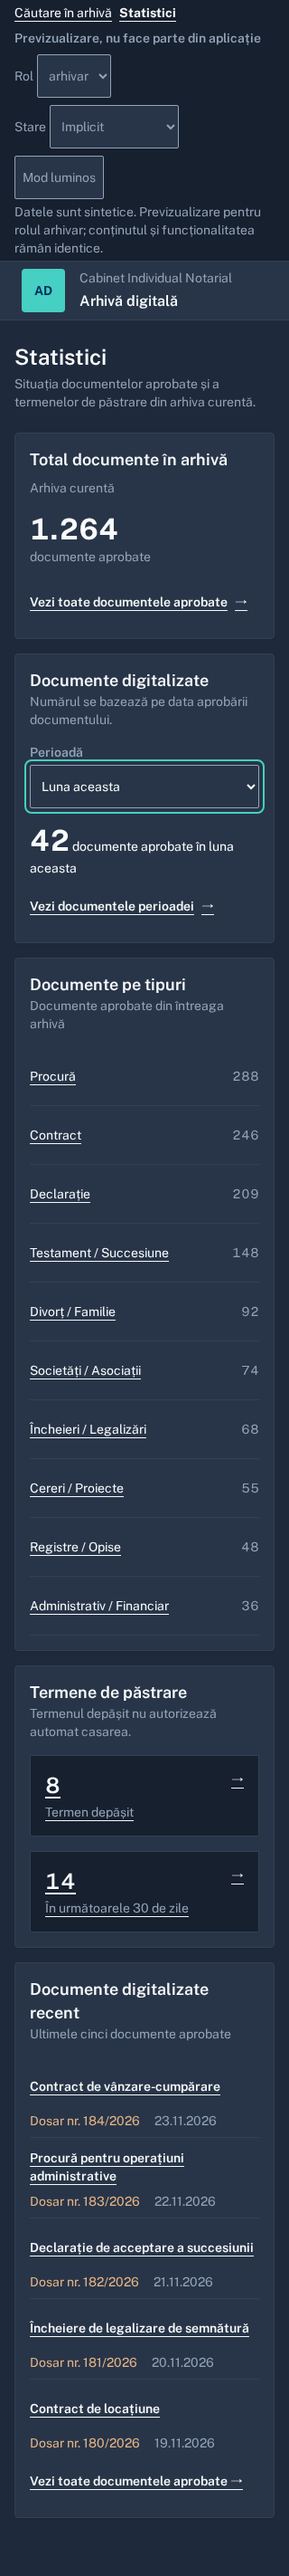
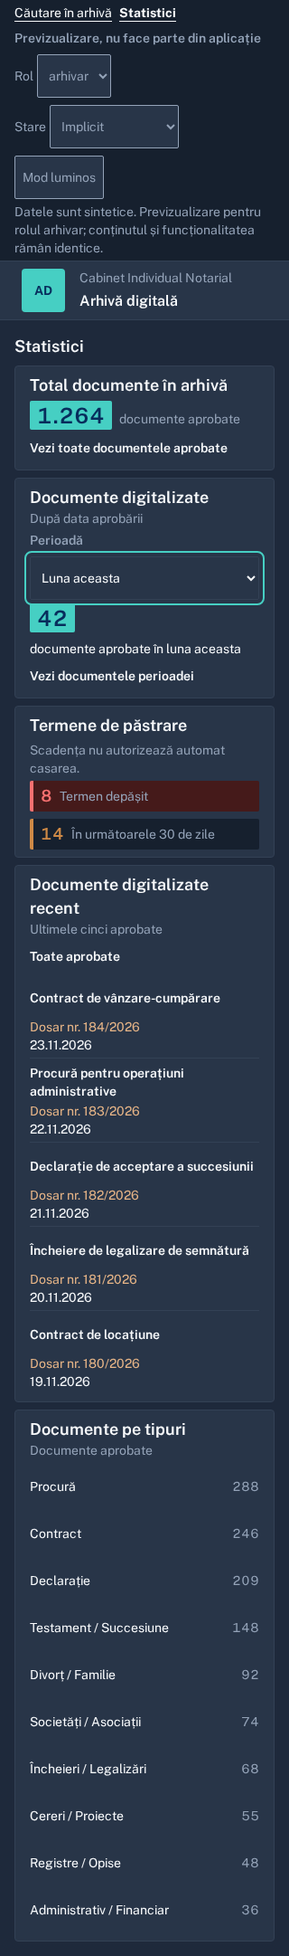
feat(DS-007): refine statistics dashboard layout

diff --git a/docs/design/mocks/DS-007.html b/docs/design/mocks/DS-007.html
@@ -14,6 +14,7 @@
       --color-primary: #072D5C; --color-accent-mid: #4683CF; --color-accent-teal: #46CFC3;
       --color-accent-amber: #CE8946; --color-version-navy: #072D5C; --color-archival-label-bg: #F9F1E9;
       --color-archival-label-text: #79502A; --color-archival-label-border: #DEC09F; --color-focus-ring: #4683CF;
+      --color-danger: #C53030; --color-danger-bg: #FFF5F5; --color-danger-border: #FEB2B2;
       --font-body: 'Public Sans', system-ui, sans-serif; --font-heading: var(--font-body);
       --text-h1: 700 32px/40px var(--font-heading); --text-h2: 600 24px/32px var(--font-heading);
       --text-h3: 600 18px/26px var(--font-heading); --text-body: 400 16px/24px var(--font-body);
@@ -30,6 +31,7 @@
       --color-text-primary: #F8FAFC; --color-text-secondary: #94A3B8; --color-border: #334155;
       --color-primary: #4683CF; --color-accent-mid: #60A5FA; --color-focus-ring: #46CFC3;
       --color-archival-label-bg: #3A302A; --color-archival-label-text: #E7B587; --color-archival-label-border: #69503A;
+      --color-danger: #F87171; --color-danger-bg: #451A1A; --color-danger-border: #7F1D1D;
     }
     *, *::before, *::after { box-sizing: border-box; }
     [hidden] { display: none !important; }
@@ -53,56 +55,67 @@
     .header-copy { display: grid; gap: var(--space-xs); }
     .header-kicker { color: var(--color-text-secondary); }
     .header-title { font: var(--text-body); font-weight: 600; }
-    .wrap { inline-size: min(100%, calc(var(--space-3xl) * 18)); margin-inline: auto; padding: var(--space-xl) var(--space-md) var(--space-3xl); }
-    .page-heading { justify-content: space-between; align-items: flex-end; margin-block-end: var(--space-lg); }
-    h1 { font: var(--text-h1); }
-    .page-description { max-inline-size: 68ch; margin-block-start: var(--space-xs); color: var(--color-text-secondary); }
-    .section-list { display: grid; gap: var(--space-md); }
-    .section { min-inline-size: 0; padding: var(--space-md); border: thin solid var(--color-border); border-radius: var(--radius-md); background: var(--color-bg-surface); box-shadow: var(--shadow-card); }
-    .section-heading { justify-content: space-between; margin-block-end: var(--space-md); }
+    .wrap { inline-size: min(100%, calc(var(--space-3xl) * 20)); margin-inline: auto; padding: var(--space-sm) var(--space-md) var(--space-md); }
+    .page-heading { margin-block-end: var(--space-sm); }
+    h1 { font: var(--text-h2); }
+    .section-list { display: grid; gap: var(--space-sm); }
+    .top-stats { display: grid; grid-template-columns: minmax(0, 1fr); gap: var(--space-sm); }
+    .bottom-grid { display: grid; grid-template-columns: minmax(0, 1fr); align-items: start; gap: var(--space-sm); }
+    .section { min-inline-size: 0; padding: var(--space-sm) var(--space-md); border: thin solid var(--color-border); border-radius: var(--radius-md); background: var(--color-bg-surface); }
+    .section-heading { justify-content: space-between; gap: var(--space-xs) var(--space-sm); margin-block-end: var(--space-xs); }
     h2 { font: var(--text-h3); }
     .section-kicker { color: var(--color-text-secondary); }
-    .section-link { min-block-size: var(--space-2xl); margin-inline-start: auto; font-weight: 600; }
-    .metric-layout { display: grid; grid-template-columns: minmax(0, 1fr) auto; align-items: end; gap: var(--space-md); }
-    .metric-value { font: var(--text-h1); font-variant-numeric: tabular-nums; }
+    .section-link { min-block-size: var(--space-xl); margin-inline-start: auto; font-weight: 600; text-decoration: none; }
+    .section-link:hover, .section-link:focus-visible, .type-row a:hover, .type-row a:focus-visible, .recent-title:hover, .recent-title:focus-visible { text-decoration: underline; }
+    .metric-layout { display: flex; align-items: center; justify-content: space-between; flex-wrap: wrap; gap: var(--space-xs) var(--space-md); }
+    .metric-content { display: flex; align-items: baseline; flex-wrap: wrap; gap: var(--space-sm); min-inline-size: 0; }
+    .metric-value { display: inline-flex; align-items: center; padding: 0 var(--space-sm); border-radius: var(--radius-sm); background: var(--color-accent-teal); color: var(--color-version-navy); font: var(--text-h2); font-variant-numeric: tabular-nums; }
     .metric-caption { color: var(--color-text-secondary); }
-    .period-controls { display: flex; align-items: end; flex-wrap: wrap; gap: var(--space-sm); margin-block-end: var(--space-md); }
-    .field { display: grid; gap: var(--space-xs); }
+    .period-controls { display: flex; align-items: center; flex-wrap: wrap; gap: var(--space-xs) var(--space-sm); margin-block-end: var(--space-xs); }
+    .field { display: flex; align-items: center; flex-wrap: wrap; gap: var(--space-sm); }
     .field label { color: var(--color-text-secondary); font-weight: 600; }
-    .field select, .field input { min-block-size: var(--space-2xl); min-inline-size: 11ch; padding: var(--space-xs) var(--space-sm); border: thin solid var(--color-text-secondary); border-radius: var(--radius-sm); background: var(--color-bg-surface); }
+    .field select, .field input { min-block-size: var(--space-2xl); min-inline-size: 11ch; padding: var(--space-xs) var(--space-sm); border: thin solid var(--color-border); border-radius: var(--radius-sm); background: var(--color-bg-surface); }
     .date-range { display: flex; flex-wrap: wrap; gap: var(--space-sm); }
-    .period-summary { display: flex; flex-wrap: wrap; align-items: baseline; gap: var(--space-sm) var(--space-md); }
-    .type-list { display: grid; grid-template-columns: repeat(2, minmax(0, 1fr)); column-gap: var(--space-xl); }
-    .type-row { display: flex; flex-wrap: nowrap; align-items: center; justify-content: space-between; gap: var(--space-md); min-inline-size: 0; padding: var(--space-sm) 0; border-block-end: thin solid var(--color-border); }
-    .type-row a { display: inline-flex; flex: 1; align-items: center; min-block-size: var(--space-2xl); min-inline-size: 0; overflow-wrap: anywhere; }
+    .period-summary { display: flex; align-items: center; justify-content: space-between; flex-wrap: wrap; gap: var(--space-xs) var(--space-md); }
+    .period-summary p { display: flex; align-items: center; flex-wrap: wrap; gap: var(--space-sm); }
+    .type-list { display: grid; grid-template-columns: minmax(0, 1fr); }
+    .type-row { display: flex; flex-wrap: nowrap; align-items: center; justify-content: space-between; gap: var(--space-sm); min-inline-size: 0; padding-block: var(--space-xs); }
+    .type-row a { display: inline-flex; flex: 1; align-items: center; min-block-size: var(--space-lg); min-inline-size: 0; overflow-wrap: anywhere; text-decoration: none; }
     .type-count { flex: none; color: var(--color-text-secondary); font-variant-numeric: tabular-nums; }
-    .deadline-list { display: grid; grid-template-columns: repeat(2, minmax(0, 1fr)); gap: var(--space-md); }
-    .deadline-row { justify-content: space-between; align-items: flex-start; min-inline-size: 0; padding: var(--space-md); border: thin solid var(--color-border); border-radius: var(--radius-sm); background: var(--color-bg-subtle); }
-    .deadline-copy { display: grid; gap: var(--space-xs); min-inline-size: 0; }
-    .deadline-copy strong { font: var(--text-h2); font-variant-numeric: tabular-nums; }
+    .deadline-list { display: grid; grid-template-columns: repeat(2, minmax(0, 1fr)); gap: var(--space-sm); }
+    .deadline-row { display: flex; align-items: center; justify-content: flex-start; min-inline-size: 0; padding: var(--space-xs) var(--space-sm); border: 0; border-inline-start: var(--space-xs) solid var(--color-accent-amber); border-radius: var(--radius-sm); background: var(--color-bg-subtle); color: var(--color-text-primary); text-decoration: none; }
+    .deadline-row.overdue { border-color: var(--color-danger); background: var(--color-danger-bg); }
+    .deadline-copy { display: flex; align-items: center; flex-wrap: wrap; gap: var(--space-xs) var(--space-sm); min-inline-size: 0; }
+    .deadline-copy strong { color: var(--color-danger); font: var(--text-h3); font-variant-numeric: tabular-nums; }
+    .deadline-row.upcoming .deadline-copy strong { color: var(--color-accent-amber); }
     .deadline-copy span { color: var(--color-text-secondary); }
     .recent-list { display: grid; }
-    .recent-row { justify-content: space-between; min-inline-size: 0; padding: var(--space-sm) 0; border-block-end: thin solid var(--color-border); }
+    .recent-row { display: grid; grid-template-columns: minmax(0, 1fr) max-content max-content; align-items: center; gap: var(--space-xs); min-inline-size: 0; padding-block: var(--space-xs); border-block-end: thin solid var(--color-border); }
     .recent-row:last-child { border-block-end: 0; }
-    .recent-main { display: grid; gap: var(--space-xs); min-inline-size: 0; }
-    .recent-title { display: inline-flex; align-items: center; min-block-size: var(--space-2xl); font-weight: 600; overflow-wrap: anywhere; }
-    .recent-meta { display: flex; flex-wrap: wrap; gap: var(--space-xs) var(--space-md); color: var(--color-text-secondary); }
+    .recent-title { display: inline-flex; align-items: center; min-block-size: var(--space-lg); min-inline-size: 0; font-weight: 600; overflow-wrap: anywhere; text-decoration: none; }
+    .recent-meta { display: flex; flex-wrap: wrap; gap: var(--space-xs) var(--space-sm); color: var(--color-text-secondary); }
     .dossier { color: var(--color-archival-label-text); }
     .empty-message, .state-message { padding: var(--space-md); border-inline-start: var(--space-xs) solid var(--color-accent-mid); border-radius: var(--radius-sm); background: var(--color-bg-subtle); }
     main[data-state="error"] .state-message { border-color: var(--color-accent-amber); }
-    .skeleton { display: block; min-block-size: var(--space-2xl); margin-block: var(--space-sm); border-radius: var(--radius-sm); background: var(--color-bg-subtle); }
+    .skeleton { display: block; inline-size: var(--space-3xl); min-block-size: var(--space-2xl); margin-block: var(--space-sm); border-radius: var(--radius-sm); background: var(--color-bg-subtle); }
     .sr-only { position: absolute; inline-size: 1px; block-size: 1px; padding: 0; margin: -1px; overflow: hidden; clip: rect(0, 0, 0, 0); white-space: nowrap; border: 0; }
+    @media (min-width: 640px) {
+      .top-stats { grid-template-columns: repeat(2, minmax(0, 1fr)); }
+    }
+    @media (min-width: 1024px) {
+      .bottom-grid { grid-template-columns: minmax(0, 3fr) minmax(0, 2fr); }
+    }
     @media (max-width: 639px) {
-      .wrap { padding-block-start: var(--space-lg); }
-      .page-heading { align-items: flex-start; }
-      h1 { font: var(--text-h2); }
-      .section { padding: var(--space-md); }
-      .type-list, .deadline-list { grid-template-columns: minmax(0, 1fr); }
-      .metric-layout { grid-template-columns: minmax(0, 1fr); }
+      .wrap { padding-block-start: var(--space-md); }
+      h1 { font: var(--text-h3); }
+      .section { padding: var(--space-sm) var(--space-md); }
+      .deadline-list { grid-template-columns: minmax(0, 1fr); }
       .section-link { margin-inline-start: 0; }
-      .period-controls, .date-range { inline-size: 100%; }
-      .field, .field select, .field input { inline-size: 100%; }
-      .recent-row { align-items: flex-start; }
+      .period-controls, .date-range, .field { inline-size: 100%; }
+      .field { flex-direction: column; align-items: stretch; }
+      .field select, .field input { inline-size: 100%; }
+      .recent-row { grid-template-columns: minmax(0, 1fr); gap: 0; }
+      .recent-title, .type-row a { min-block-size: calc(var(--space-2xl) - var(--space-xs)); }
     }
     @media (prefers-reduced-motion: reduce) { *, *::before, *::after { scroll-behavior: auto !important; transition-duration: 0.01ms !important; } }
   </style>
@@ -130,79 +143,80 @@
   </header>
 
   <main class="wrap" id="statistics-screen" data-state="default">
-    <div class="page-heading">
-      <div><h1>Statistici</h1><p class="page-description">Situația documentelor aprobate și a termenelor de păstrare din arhiva curentă.</p></div>
-    </div>
+    <div class="page-heading"><h1>Statistici</h1></div>
 
     <div class="section-list">
-      <section class="section" aria-labelledby="total-title">
-        <div class="section-heading"><h2 id="total-title">Total documente în arhivă</h2><span class="section-kicker">Arhiva curentă</span></div>
-        <div class="metric-layout">
-          <div><p class="metric-value" data-default="1.264" data-empty="0">1.264</p><p class="metric-caption">documente aprobate</p></div>
-          <a class="section-link" href="DS-001.html?status=approved">Vezi toate documentele aprobate <span aria-hidden="true">→</span></a>
-        </div>
-      </section>
-
-      <section class="section" aria-labelledby="period-title">
-        <div class="section-heading"><div><h2 id="period-title">Documente digitalizate</h2><p class="section-kicker">Numărul se bazează pe data aprobării documentului.</p></div></div>
-        <div class="period-controls">
-          <div class="field"><label for="period">Perioadă</label><select id="period">
-            <option value="this-month" data-count="42" data-label="Luna aceasta">Luna aceasta</option>
-            <option value="last-month" data-count="38" data-label="Luna trecută">Luna trecută</option>
-            <option value="this-year" data-count="326" data-label="Anul acesta">Anul acesta</option>
-            <option value="all-time" data-count="1264" data-label="Toată perioada">Toată perioada</option>
-            <option value="custom" data-count="12" data-label="Interval personalizat">Interval personalizat</option>
-          </select></div>
-          <div class="date-range" id="custom-range" hidden>
-            <div class="field"><label for="date-from">De la</label><input id="date-from" type="date" value="2026-10-01"></div>
-            <div class="field"><label for="date-to">Până la</label><input id="date-to" type="date" value="2026-10-31"></div>
+      <div class="top-stats">
+        <section class="section" id="total-section" aria-labelledby="total-title">
+          <div class="section-heading"><h2 id="total-title">Total documente în arhivă</h2></div>
+          <div class="metric-layout">
+            <div class="metric-content"><p class="metric-value" data-default="1.264" data-empty="0">1.264</p><p class="metric-caption">documente aprobate</p></div>
+            <a class="section-link" href="DS-001.html?status=approved">Vezi toate documentele aprobate</a>
           </div>
-        </div>
-        <div class="period-summary">
-          <p><strong class="metric-value" id="period-count" data-default="42" data-empty="0">42</strong> <span id="period-label">documente aprobate în luna aceasta</span></p>
-          <a class="section-link" id="period-link" href="DS-001.html?status=approved&amp;approved_period=this-month">Vezi documentele perioadei <span aria-hidden="true">→</span></a>
-        </div>
-      </section>
+        </section>
 
-      <section class="section" aria-labelledby="types-title">
-        <div class="section-heading"><div><h2 id="types-title">Documente pe tipuri</h2><p class="section-kicker">Documente aprobate din întreaga arhivă</p></div></div>
-        <ul class="type-list" id="type-list">
-          <li class="type-row"><a href="DS-001.html?status=approved&amp;type=Procur%C4%83">Procură</a><span class="type-count">288</span></li>
-          <li class="type-row"><a href="DS-001.html?status=approved&amp;type=Contract">Contract</a><span class="type-count">246</span></li>
-          <li class="type-row"><a href="DS-001.html?status=approved&amp;type=Declara%C8%9Bie">Declarație</a><span class="type-count">209</span></li>
-          <li class="type-row"><a href="DS-001.html?status=approved&amp;type=Testament%20%2F%20Succesiune">Testament / Succesiune</a><span class="type-count">148</span></li>
-          <li class="type-row"><a href="DS-001.html?status=approved&amp;type=Divor%C8%9B%20%2F%20Familie">Divorț / Familie</a><span class="type-count">92</span></li>
-          <li class="type-row"><a href="DS-001.html?status=approved&amp;type=Societ%C4%83%C8%9Bi%20%2F%20Asocia%C8%9Bii">Societăți / Asociații</a><span class="type-count">74</span></li>
-          <li class="type-row"><a href="DS-001.html?status=approved&amp;type=%C3%8Encheieri%20%2F%20Legaliz%C4%83ri">Încheieri / Legalizări</a><span class="type-count">68</span></li>
-          <li class="type-row"><a href="DS-001.html?status=approved&amp;type=Cereri%20%2F%20Proiecte">Cereri / Proiecte</a><span class="type-count">55</span></li>
-          <li class="type-row"><a href="DS-001.html?status=approved&amp;type=Registre%20%2F%20Opise">Registre / Opise</a><span class="type-count">48</span></li>
-          <li class="type-row"><a href="DS-001.html?status=approved&amp;type=Administrativ%20%2F%20Financiar">Administrativ / Financiar</a><span class="type-count">36</span></li>
-        </ul>
-      </section>
+        <section class="section" id="digitalized-section" aria-labelledby="period-title">
+          <div class="section-heading"><div><h2 id="period-title">Documente digitalizate</h2><p class="section-kicker">După data aprobării</p></div></div>
+          <div class="period-controls">
+            <div class="field"><label for="period">Perioadă</label><select id="period">
+              <option value="this-month" data-count="42" data-label="Luna aceasta">Luna aceasta</option>
+              <option value="last-month" data-count="38" data-label="Luna trecută">Luna trecută</option>
+              <option value="this-year" data-count="326" data-label="Anul acesta">Anul acesta</option>
+              <option value="all-time" data-count="1264" data-label="Toată perioada">Toată perioada</option>
+              <option value="custom" data-count="12" data-label="Interval personalizat">Interval personalizat</option>
+            </select></div>
+            <div class="date-range" id="custom-range" hidden>
+              <div class="field"><label for="date-from">De la</label><input id="date-from" type="date" value="2026-10-01"></div>
+              <div class="field"><label for="date-to">Până la</label><input id="date-to" type="date" value="2026-10-31"></div>
+            </div>
+          </div>
+          <div class="period-summary">
+            <p><strong class="metric-value" id="period-count" data-default="42" data-empty="0">42</strong> <span id="period-label">documente aprobate în luna aceasta</span></p>
+            <a class="section-link" id="period-link" href="DS-001.html?status=approved&amp;approved_period=this-month">Vezi documentele perioadei</a>
+          </div>
+        </section>
+      </div>
 
-      <section class="section" aria-labelledby="retention-title">
-        <div class="section-heading"><div><h2 id="retention-title">Termene de păstrare</h2><p class="section-kicker">Termenul depășit nu autorizează automat casarea.</p></div></div>
+      <section class="section" id="retention-section" aria-labelledby="retention-title">
+        <div class="section-heading"><h2 id="retention-title">Termene de păstrare</h2><p class="section-kicker">Scadența nu autorizează automat casarea.</p></div>
         <div class="deadline-list">
-          <a class="deadline-row" href="DS-005.html?filter=overdue" aria-label="Vezi documentele cu termen de păstrare depășit">
-            <span class="deadline-copy"><strong data-default="8" data-empty="0">8</strong><span>Termen depășit</span></span><span aria-hidden="true">→</span>
+          <a class="deadline-row overdue" href="DS-005.html?filter=overdue" aria-label="Vezi documentele cu termen de păstrare depășit">
+            <span class="deadline-copy"><strong data-default="8" data-empty="0">8</strong><span>Termen depășit</span></span>
           </a>
-          <a class="deadline-row" href="DS-005.html?filter=next-30-days" aria-label="Vezi documentele cu termen în următoarele 30 de zile">
-            <span class="deadline-copy"><strong data-default="14" data-empty="0">14</strong><span>În următoarele 30 de zile</span></span><span aria-hidden="true">→</span>
+          <a class="deadline-row upcoming" href="DS-005.html?filter=next-30-days" aria-label="Vezi documentele cu termen în următoarele 30 de zile">
+            <span class="deadline-copy"><strong data-default="14" data-empty="0">14</strong><span>În următoarele 30 de zile</span></span>
           </a>
         </div>
       </section>
 
-      <section class="section" aria-labelledby="recent-title-heading">
-        <div class="section-heading"><div><h2 id="recent-title-heading">Documente digitalizate recent</h2><p class="section-kicker">Ultimele cinci documente aprobate</p></div></div>
+      <div class="bottom-grid">
+        <section class="section" id="recent-section" aria-labelledby="recent-title-heading">
+          <div class="section-heading"><div><h2 id="recent-title-heading">Documente digitalizate recent</h2><p class="section-kicker">Ultimele cinci aprobate</p></div><a class="section-link" href="DS-001.html?status=approved">Toate aprobate</a></div>
         <ul class="recent-list" id="recent-list">
-          <li class="recent-row"><div class="recent-main"><a class="recent-title" href="DS-002.html?document=doc-184">Contract de vânzare-cumpărare</a><div class="recent-meta"><span class="dossier">Dosar nr. 184/2026</span><time datetime="2026-11-23">23.11.2026</time></div></div><span class="sr-only">Deschide documentul aprobat</span></li>
-          <li class="recent-row"><div class="recent-main"><a class="recent-title" href="DS-002.html?document=doc-183">Procură pentru operațiuni administrative</a><div class="recent-meta"><span class="dossier">Dosar nr. 183/2026</span><time datetime="2026-11-22">22.11.2026</time></div></div><span class="sr-only">Deschide documentul aprobat</span></li>
-          <li class="recent-row"><div class="recent-main"><a class="recent-title" href="DS-002.html?document=doc-182">Declarație de acceptare a succesiunii</a><div class="recent-meta"><span class="dossier">Dosar nr. 182/2026</span><time datetime="2026-11-21">21.11.2026</time></div></div><span class="sr-only">Deschide documentul aprobat</span></li>
-          <li class="recent-row"><div class="recent-main"><a class="recent-title" href="DS-002.html?document=doc-181">Încheiere de legalizare de semnătură</a><div class="recent-meta"><span class="dossier">Dosar nr. 181/2026</span><time datetime="2026-11-20">20.11.2026</time></div></div><span class="sr-only">Deschide documentul aprobat</span></li>
-          <li class="recent-row"><div class="recent-main"><a class="recent-title" href="DS-002.html?document=doc-180">Contract de locațiune</a><div class="recent-meta"><span class="dossier">Dosar nr. 180/2026</span><time datetime="2026-11-19">19.11.2026</time></div></div><span class="sr-only">Deschide documentul aprobat</span></li>
+          <li class="recent-row"><a class="recent-title" href="DS-002.html?document=doc-184">Contract de vânzare-cumpărare</a><span class="dossier">Dosar nr. 184/2026</span><time datetime="2026-11-23">23.11.2026</time></li>
+          <li class="recent-row"><a class="recent-title" href="DS-002.html?document=doc-183">Procură pentru operațiuni administrative</a><span class="dossier">Dosar nr. 183/2026</span><time datetime="2026-11-22">22.11.2026</time></li>
+          <li class="recent-row"><a class="recent-title" href="DS-002.html?document=doc-182">Declarație de acceptare a succesiunii</a><span class="dossier">Dosar nr. 182/2026</span><time datetime="2026-11-21">21.11.2026</time></li>
+          <li class="recent-row"><a class="recent-title" href="DS-002.html?document=doc-181">Încheiere de legalizare de semnătură</a><span class="dossier">Dosar nr. 181/2026</span><time datetime="2026-11-20">20.11.2026</time></li>
+          <li class="recent-row"><a class="recent-title" href="DS-002.html?document=doc-180">Contract de locațiune</a><span class="dossier">Dosar nr. 180/2026</span><time datetime="2026-11-19">19.11.2026</time></li>
         </ul>
-        <p class="section-link"><a href="DS-001.html?status=approved">Vezi toate documentele aprobate <span aria-hidden="true">→</span></a></p>
-      </section>
+        </section>
+
+        <section class="section" id="types-section" aria-labelledby="types-title">
+          <div class="section-heading"><div><h2 id="types-title">Documente pe tipuri</h2><p class="section-kicker">Documente aprobate</p></div></div>
+          <ul class="type-list" id="type-list">
+            <li class="type-row"><a href="DS-001.html?status=approved&amp;type=Procur%C4%83">Procură</a><span class="type-count">288</span></li>
+            <li class="type-row"><a href="DS-001.html?status=approved&amp;type=Contract">Contract</a><span class="type-count">246</span></li>
+            <li class="type-row"><a href="DS-001.html?status=approved&amp;type=Declara%C8%9Bie">Declarație</a><span class="type-count">209</span></li>
+            <li class="type-row"><a href="DS-001.html?status=approved&amp;type=Testament%20%2F%20Succesiune">Testament / Succesiune</a><span class="type-count">148</span></li>
+            <li class="type-row"><a href="DS-001.html?status=approved&amp;type=Divor%C8%9B%20%2F%20Familie">Divorț / Familie</a><span class="type-count">92</span></li>
+            <li class="type-row"><a href="DS-001.html?status=approved&amp;type=Societ%C4%83%C8%9Bi%20%2F%20Asocia%C8%9Bii">Societăți / Asociații</a><span class="type-count">74</span></li>
+            <li class="type-row"><a href="DS-001.html?status=approved&amp;type=%C3%8Encheieri%20%2F%20Legaliz%C4%83ri">Încheieri / Legalizări</a><span class="type-count">68</span></li>
+            <li class="type-row"><a href="DS-001.html?status=approved&amp;type=Cereri%20%2F%20Proiecte">Cereri / Proiecte</a><span class="type-count">55</span></li>
+            <li class="type-row"><a href="DS-001.html?status=approved&amp;type=Registre%20%2F%20Opise">Registre / Opise</a><span class="type-count">48</span></li>
+            <li class="type-row"><a href="DS-001.html?status=approved&amp;type=Administrativ%20%2F%20Financiar">Administrativ / Financiar</a><span class="type-count">36</span></li>
+          </ul>
+        </section>
+      </div>
     </div>
     <p class="state-message" id="state-message" role="status" hidden></p>
   </main>

diff --git a/docs/design/tests/DS-007.spec.js b/docs/design/tests/DS-007.spec.js
@@ -27,9 +27,9 @@ test('shows exactly five statistics sections with the same content for both staf
   await expect(main.locator('.section h2')).toHaveText([
     'Total documente în arhivă',
     'Documente digitalizate',
-    'Documente pe tipuri',
     'Termene de păstrare',
     'Documente digitalizate recent',
+    'Documente pe tipuri',
   ]);
   await expect(main.locator('#type-list .type-row')).toHaveCount(10);
   await expect(main.locator('#recent-list .recent-row')).toHaveCount(5);
@@ -91,6 +91,26 @@ test('links approved counts and periods to archive search and retention counters
   await expect(page.getByRole('link', { name: 'Vezi documentele cu termen de păstrare depășit' })).toHaveAttribute('href', 'DS-005.html?filter=overdue');
   await expect(page.getByRole('link', { name: 'Vezi documentele cu termen în următoarele 30 de zile' })).toHaveAttribute('href', 'DS-005.html?filter=next-30-days');
   await expect(page.locator('#recent-list a').first()).toHaveAttribute('href', 'DS-002.html?document=doc-184');
+});
+
+test('arranges the five sections in a compact desktop dashboard grid', async ({ page }, info) => {
+  test.skip(!info.project.name.startsWith('desktop'));
+  await page.setViewportSize({ width: 1440, height: 900 });
+  await page.goto(mock);
+
+  const total = await page.locator('#total-section').boundingBox();
+  const digitalized = await page.locator('#digitalized-section').boundingBox();
+  const retention = await page.locator('#retention-section').boundingBox();
+  const recent = await page.locator('#recent-section').boundingBox();
+  const types = await page.locator('#types-section').boundingBox();
+  expect(Math.abs(total.y - digitalized.y)).toBeLessThanOrEqual(2);
+  expect(digitalized.x).toBeGreaterThan(total.x);
+  expect(retention.y).toBeGreaterThan(total.y + total.height);
+  expect(Math.abs(recent.y - types.y)).toBeLessThanOrEqual(2);
+  expect(recent.width / types.width).toBeGreaterThanOrEqual(1.4);
+  expect(recent.width / types.width).toBeLessThanOrEqual(1.6);
+  expect(recent.y + recent.height).toBeLessThanOrEqual(900);
+  expect(types.y + types.height).toBeLessThanOrEqual(900);
 });
 
 test('previews empty, loading, error, and long-name states', async ({ page }, info) => {
